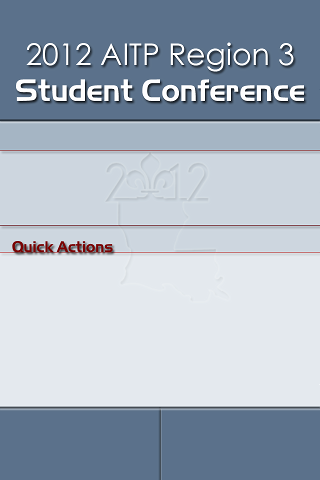
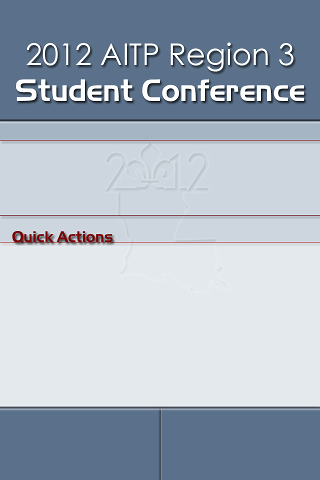
android yea :D

Changed region(s): [[0.0, 0.4375, 1.0, 0.5312], [0.0, 0.2812, 1.0, 0.3438]]

diff --git a/Resources/ui/handheld/android/Home.js b/Resources/ui/handheld/android/Home.js
@@ -65,14 +65,14 @@ function HomeWindow() {
 	var eventIcons = Ti.UI.createView({
 		backgroundImage: 'NONE',
 		top: 0,
-		height: '155dp',
+		height: settings.scrollableHeight,
 		layout: 'horizontal'
 	});
 	
 	var resourceIcons = Ti.UI.createView({
 		backgroundImage: 'NONE',
 		top: 0,
-		height: 172,
+		height: settings.scrollableHeight,
 		layout: 'horizontal'
 	});	
 
@@ -273,10 +273,11 @@ function HomeWindow() {
 	mainNavWindow.add(resourcesTab);
 	
 	var scrollableView = Ti.UI.createScrollableView({
+		
 		views:[eventIcons,resourceIcons],
 		showPagingControl: false,
-		bottom: '72dp',
-		height: '155dp'
+		bottom: settings.scrollableBottom,
+		height: settings.scrollableHeight
 	});
 	mainNavWindow.add(scrollableView);
 	

diff --git a/Resources/android/settings.js b/Resources/android/settings.js
@@ -6,7 +6,7 @@ function Settings(height){
 			this.iconHeight = 74;
 			break;
 		case 480:
-			this.rowTop = 126;
+			this.rowTop = 116;
 			this.headerTop = 4;
 			this.subtitleTop = 34;
 			this.rowHeight = 74;
@@ -16,6 +16,8 @@ function Settings(height){
 			this.iconHeight = 74;
 			this.headerFontSize = 24;
 			this.subtitleFontSize = 12;
+			this.scrollableBottom = 72;
+			this.scrollableHeight = 165;
 			break;
 		case 800:
 		case 854:
@@ -29,6 +31,8 @@ function Settings(height){
 			this.iconHeight = 74;
 			this.headerFontSize = 36;
 			this.subtitleFontSize = 16;
+			this.scrollableBottom = 72;
+			this.scrollableHeight = 165;
 			break;
 	};
 	
